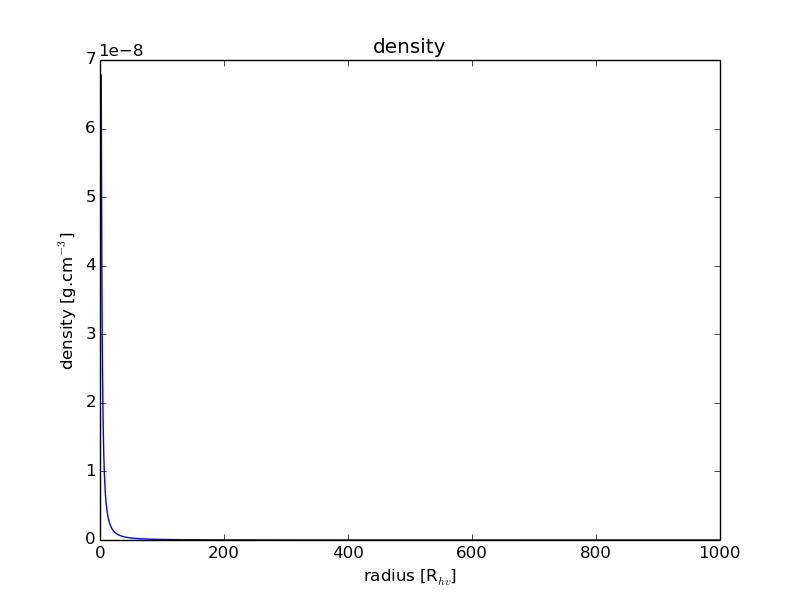
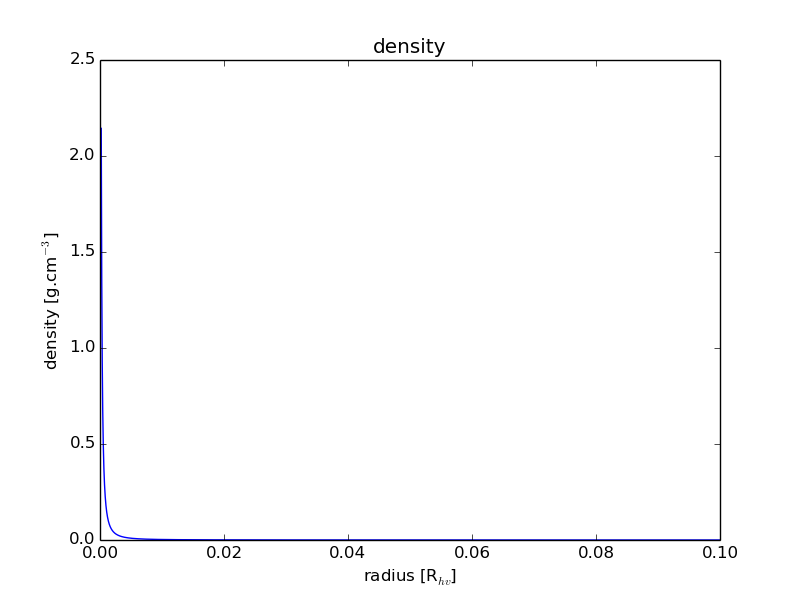
corrected R list to float

diff --git a/modeling/domcek/plots.py b/modeling/domcek/plots.py
@@ -1,10 +1,12 @@
 import matplotlib.pyplot as plt
+from numpy import *
 
 def solutions(distance,alfa,M_16,m_1,R_hv):
-	d_l,surface_density_l,height_l,density_l = ([] for i in range(4))
+	list_function = arange(2*10**(-4),10**(-1),10**(-5))
+	d_l,surface_density_l,height_l,density_l,Fx = ([] for i in range(5))
 	temperature_l,opacity_l,viscosity_l,radial_velocity_l = ([] for i in range(4))
-	for R_10 in range(R_hv+1,distance):
-		f=(1-(float(R_hv)/R_10)**(1.0/2))**(1.0/4)
+	for R_10 in list_function:
+		f=(1-(float(10**(-4)*R_hv)/R_10)**(1.0/2))**(1.0/4)
 		surface_density = 5.2*alfa**(-4.0/5)*M_16**(7.0/10)*m_1**(1.0/4)*R_10**(-3.0/4)*f**(14.0/5)
 		height =  1.7*10**8*alfa**(-1.0/10)*M_16**(3.0/20)*m_1**(-3.0/8)*R_10**(9.0/8)*f**(3.0/5)
 		density = 3.1*10**(-8)*alfa**(-7.0/10)*M_16**(11.0/20)*m_1**(5.0/8)*R_10**(-15.0/8)*f**(11.0/5)
@@ -13,6 +15,7 @@ def solutions(distance,alfa,M_16,m_1,R_hv):
 		viscosity = 1.8*10**14*alfa**(4.0/5)*M_16**(3.0/10)*m_1**(-1.0/4)*R_10**(3.0/4)*f**(6.0/5)
 		radial_velocity = 2.7*10**4*alfa**(4.0/5)*M_16**(3.0/10)*m_1**(-1.0/4)*R_10**(-1.0/4)*f**(-14.0/5)
 		d_l.append(R_10)
+		Fx.append(f)
 		surface_density_l.append(surface_density)
 		height_l.append(height)
 		density_l.append(density)
@@ -20,7 +23,7 @@ def solutions(distance,alfa,M_16,m_1,R_hv):
 		opacity_l.append(opacity)
 		viscosity_l.append(viscosity)
 		radial_velocity_l.append(radial_velocity)
-	return d_l, surface_density_l, height_l, density_l,temperature_l,opacity_l,viscosity_l,radial_velocity_l
+	return d_l, surface_density_l, height_l, density_l,temperature_l,opacity_l,viscosity_l,radial_velocity_l,Fx
 
 lists=solutions(10**3,0.5,10,5,1)
 
@@ -29,6 +32,7 @@ plt.plot(lists[0], lists[1])
 plt.title('surface density')
 plt.xlabel('radius [R$_{hv}$]')
 plt.ylabel('surface density [g.cm$^{-2}$] ')
+plt.grid()
 plt.savefig("surface density")
 plt.gcf().clear()
 
@@ -72,4 +76,11 @@ plt.title('radial velocity')
 plt.xlabel('radius [R$_{hv}$]')
 plt.ylabel('radial velocity [cm.s$^{-1}$] ')
 plt.savefig("radial velocity")
+plt.gcf().clear()
+
+plt.plot(lists[0], lists[8])
+plt.title('f')
+plt.xlabel('radius [R$_{hv}$]')
+plt.ylabel('f')
+plt.savefig("f")
 plt.gcf().clear()
